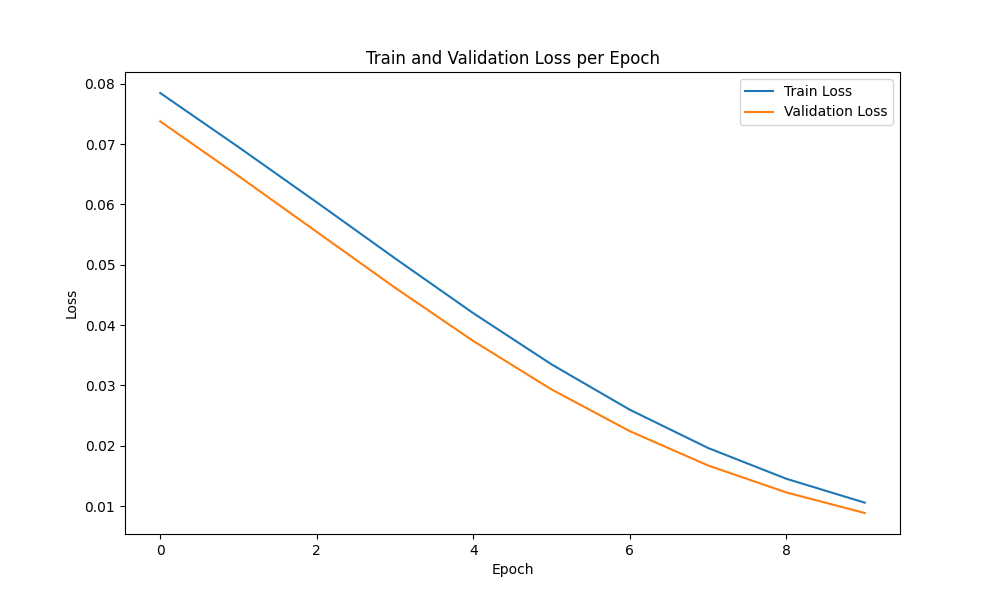
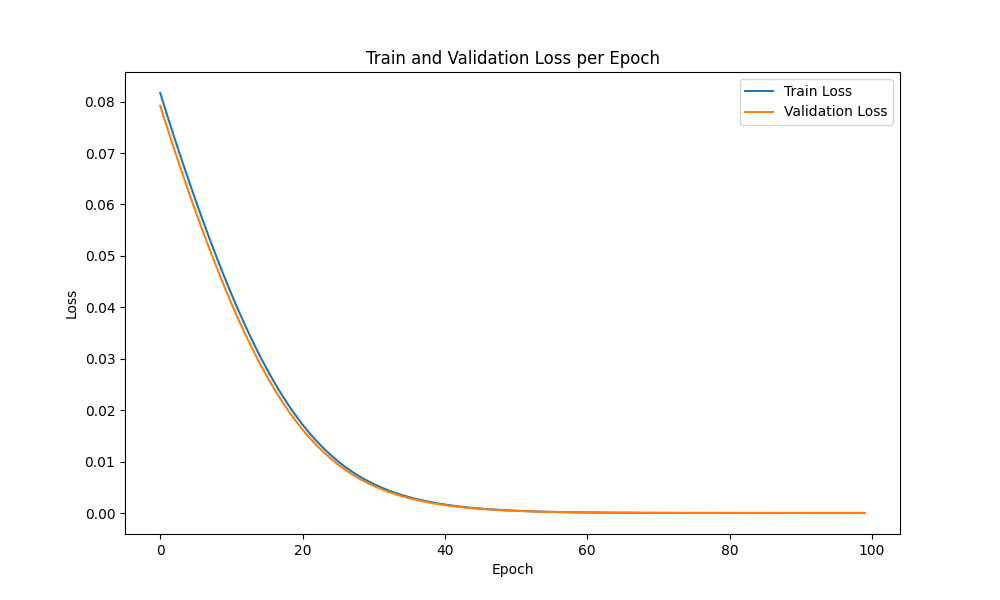
autoencoder - train #1

diff --git a/code/main.py b/code/main.py
@@ -8,21 +8,22 @@ import numpy as np
 def main():
 
     # Load data
-    data_tensor = np.load("../data/data_files/gene_families/Intersection/tensor.npy") 
+    data_tensor = np.load("data/data_files/gene_families/Intersection/tensor.npy") 
     print(f"Data tensor shape: {data_tensor.shape}")
 
     # Load labels
-    samples = np.load("../data/data_files/gene_families/Intersection/sample_list.npy", allow_pickle=True)
-    bacteria = np.load("../data/data_files/gene_families/Intersection/bacteria_list.npy", allow_pickle=True)
-    gene_families = np.load("../data/data_files/gene_families/Intersection/gene_families_list.npy", allow_pickle=True)
+    samples = np.load("data/data_files/gene_families/Intersection/sample_list.npy", allow_pickle=True)
+    bacteria = np.load("data/data_files/gene_families/Intersection/bacteria_list.npy", allow_pickle=True)
+    gene_families = np.load("data/data_files/gene_families/Intersection/gene_families_list.npy", allow_pickle=True)
+
 
     # Convert the data tensor to a PyTorch tensor
     data_tensor = torch.tensor(data_tensor, dtype=torch.float32)
 
-    # Shuffle the tensor along the first dimension (samples). same order for tensor and labels. 
-    indices = torch.randperm(data_tensor.size(0)) 
-    data_tensor = data_tensor[indices]
-    samples = samples[indices]
+    # Shuffle the tensor along the bacteria dimension. same order for tensor and labels. 
+    perm = torch.randperm(data_tensor.size(1)) 
+    data_tensor = data_tensor[:, perm, :]
+    bacteria = bacteria[perm]
 
     # Split the tensor along the bacteria dimension (dimension 1)
     num_bacteria = data_tensor.shape[1]
@@ -37,36 +38,27 @@ def main():
     test_tensor = data_tensor[:, split_index_val:, :]
 
     # Split the labels corrispondigly
-    train_samples = samples[:split_index_train]
-    val_samples = samples[split_index_train:split_index_val]
-    test_samples = samples[split_index_val:]
-
     train_bacteria = bacteria[:split_index_train]
     val_bacteria = bacteria[split_index_train:split_index_val]
     test_bacteria = bacteria[split_index_val:]
 
-    train_gene_families = gene_families[:split_index_train]
-    val_gene_families = gene_families[split_index_train:split_index_val]
-    test_gene_families = gene_families[split_index_val:]
-
-    # save the test labels and test data (tensor) as separate npy files
+    # save the test labels and test data (tensor) as separate .npy files
     np.save("test_tensor.npy", test_tensor.numpy())
-    np.save("test_samples.npy", test_samples)
     np.save("test_bacteria.npy", test_bacteria)
-    np.save("test_genes.npy", test_gene_families)
+    np.save("val_tensor.npy", val_tensor.numpy())
+    np.save("val_bacteria.npy", val_bacteria)
+    np.save("samples.npy", samples)
+    np.save("genes.npy", gene_families)
 
     # Create Dataset instances for training and testing
-    # batch_size = 64  
-    batch_size = 32 # tried to reduce to make training faster
-    train_dataset = TensorDataset(train_tensor, batch_size)
-    val_dataset = TensorDataset(val_tensor, batch_size)
-    test_dataset = TensorDataset(test_tensor, batch_size)
+    batch_size = 128 
+    train_dataset = TensorDataset(train_tensor, batch_size=batch_size)
+    val_dataset = TensorDataset(val_tensor, batch_size=batch_size)
 
     # Use DataLoader to load batches of data
     # noga - added num_workers=4 for parallel data loading
-    train_loader = DataLoader(train_dataset, shuffle=True, num_workers=4, collate_fn=TensorDataset.custom_collate_fn)
-    val_loader = DataLoader(val_dataset, shuffle=False, num_workers=4, collate_fn=TensorDataset.custom_collate_fn)
-    test_loader = DataLoader(test_dataset, shuffle=False, num_workers=4, collate_fn=TensorDataset.custom_collate_fn)
+    train_loader = DataLoader(train_dataset, batch_size=batch_size, shuffle=True, num_workers=4, pin_memory=True, persistent_workers=True, prefetch_factor=2)
+    val_loader = DataLoader(val_dataset, batch_size=batch_size, shuffle=False, num_workers=4, pin_memory=True, persistent_workers=True, prefetch_factor=2)
 
     # Initialize model
     gene_dim = data_tensor.shape[-1]  # gene dim
@@ -75,6 +67,7 @@ def main():
     device = torch.device("cuda" if torch.cuda.is_available() else "cpu")
     model = SplitAutoencoder(gene_dim=gene_dim, embedding_dim=embedding_dim)
     model = model.to(device)
+    #model = torch.compile(model)
     print(f"Running on device: {device}") # Check if GPU is available
 
     # Train the model
@@ -84,20 +77,8 @@ def main():
     # Save trained model
     trained_model_path = "split_autoencoder.pt"
     torch.save(trained_model, trained_model_path)
-
-    # Save validation and test sets with labels
-    # noga - not sure if needed for labels , but keeping it for now
-    np.save("data/data_files/val/val_tensor.npy", val_tensor.numpy())
-    np.save("data/data_files/test/test_tensor.npy", test_tensor.numpy())
-
-    np.save("data/data_files/val/val_samples.npy", val_samples)
-    np.save("data/data_files/test/test_samples.npy", test_samples)
-
-    np.save("data/data_files/val/val_bacteria.npy", val_bacteria)
-    np.save("data/data_files/test/test_bacteria.npy", test_bacteria)
-
-    np.save("data/data_files/val/val_genes.npy", val_gene_families)
-    np.save("data/data_files/test/test_genes.npy", test_gene_families)
+    print(f"Model saved to {trained_model_path}")
+    
 
 if __name__ == "__main__":
     main()

diff --git a/code/train.py b/code/train.py
@@ -21,18 +21,31 @@ def custom_loss(X, X_reconstructed, H_ij):
     recon_loss = F.mse_loss(X_reconstructed, X, reduction='mean')  # MSE mean
 
     # 2. sample consistency 
-    sample_consistency_loss = 0.0
+    # H_j: (n, d, b)
+    H_j_diff = H_j.unsqueeze(2) - H_j.unsqueeze(1)  # shape (n, d, d, b)
+    H_j_dist = torch.norm(H_j_diff, dim=-1)  # shape (n, d, d)
+    # Keep only upper triangle (no duplicate pairs, no self-pairs)
+    mask = torch.triu(torch.ones(d, d, device=H_j.device), diagonal=1)
+    sample_consistency_loss = (H_j_dist * mask).sum() / (n * d * (d - 1) / 2)
+    """
     for i in range(n):
         for j in range(d):
             for k in range(j+1, d):  
                 sample_consistency_loss += torch.norm(H_j[i, j] - H_j[i, k], p=2)
+    """
 
     # 3. bacteria consistency
-    bacteria_consistency_loss = 0.0
+    # H_i: (n, d, b)
+    H_i_diff = H_i.unsqueeze(1) - H_i.unsqueeze(0)  # (n, n, d, b)
+    H_i_dist = torch.norm(H_i_diff, dim=-1)  # (n, n, d)
+    mask = torch.triu(torch.ones(n, n, device=H_i.device), diagonal=1)
+    bacteria_consistency_loss = (H_i_dist * mask.unsqueeze(-1)).sum() / (n * (n - 1) / 2 * d)
+    """
     for j in range(d):
         for i in range(n):
             for k in range(i+1, n):
                 bacteria_consistency_loss += torch.norm(H_i[i, j] - H_i[k, j], p=2)
+    """
 
     # normalize by amount of arguments at the summation
     sample_consistency_loss /= (n * d * (d-1) / 2)  # d choose 2 = d * (d-1)/2
@@ -64,9 +77,9 @@ def train_model(model, train_loader, val_loader, device, num_epochs=100, learnin
         running_loss = 0.0
 
         for batch in train_loader:
-            batch_tensor = batch.to(device)  # Move data tensor to the same device as the model
-            print(f"Batch shape: {batch_tensor.shape}")  # Debugging line to check batch shape
-            # expected output of train dataset of intersection data : [64, 205, 27933]
+            batch_tensor = batch.to(device)              # Move data tensor to the same device as the model
+            batch_tensor = batch_tensor.squeeze(0)         
+            print(f"train batch shape: {batch_tensor.shape}")  # Debugging line to check batch shape
             optimizer.zero_grad()
 
             # Forward pass
@@ -87,6 +100,8 @@ def train_model(model, train_loader, val_loader, device, num_epochs=100, learnin
         with torch.no_grad():
             for data in val_loader:
                 X_tensor = data.to(device)  
+                X_tensor = X_tensor.squeeze(0) 
+                print(f"val batch shape: {X_tensor.shape}")
                 X_encoded, X_decoded = model(X_tensor)
                 loss = custom_loss(X_tensor, X_decoded, X_encoded)
                 val_loss += loss.item()

diff --git a/code/TensorDataset.py b/code/TensorDataset.py
@@ -3,26 +3,15 @@ from torch.utils.data import Dataset, DataLoader
 import numpy as np
 
 class TensorDataset(Dataset):
-    def __init__(self, tensor, batch_size):    
+    def __init__(self, tensor, batch_size=128):    
         self.tensor = tensor
         self.batch_size = batch_size
 
     def __len__(self):
-        # Return number of batches in the dataset.
-        return (self.tensor.size(0) + self.batch_size - 1) // self.batch_size
+        return self.tensor.size(0)
     
     def __getitem__(self, idx):
-        # Retrieve a whole batch of data.
-        start_idx = idx * self.batch_size # calculate the start index for the batch
-        end_idx = min(start_idx + self.batch_size, self.tensor.size(0)) 
-        batch_tensor = self.tensor[start_idx:end_idx]
-        return batch_tensor
-
-    @staticmethod
-    def custom_collate_fn(batch):
-        # Batch should already be a list of tensors, we can concatenate them
-        # no labels
-        return torch.cat(batch, dim=0)
+        return self.tensor[idx]
 
 """
 if __name__ == "__main__":
